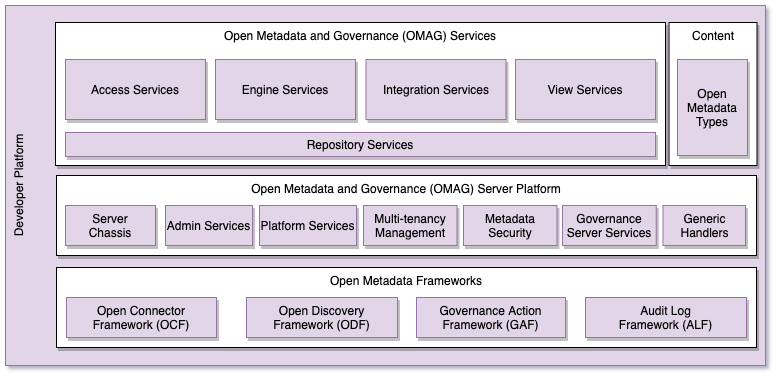
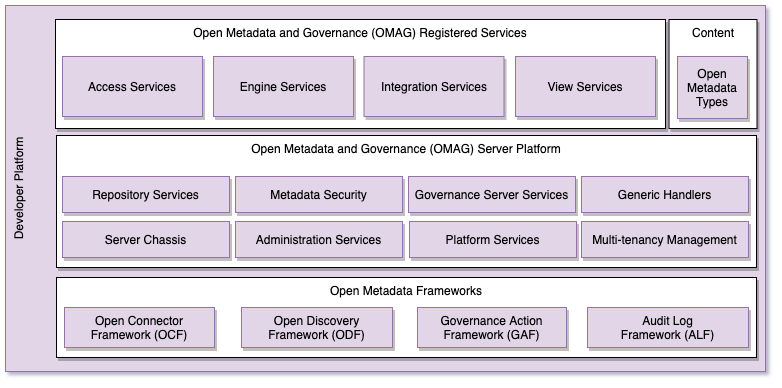
Update release status

diff --git a/open-metadata-publication/website/roadmap/developer-platform-functional-detail.md b/open-metadata-publication/website/roadmap/developer-platform-functional-detail.md
@@ -18,7 +18,11 @@ in the sections the follow.
 ![Developer Platform Detail](developer-platform-functional-detail.png#pagewidth)
 > **Figure 1:** Developer Platform Detail
 
-## Open Metadata and Governance (OMAG) Services
+## Open Metadata and Governance (OMAG) Registered Services
+
+The registered services are dynamically loaded in the OMAG Server Platform.  This means they can be
+added and removed as needed to create a customized platform. This may include
+registered services written by the Egeria community and supplied by third parties.
 
 ### Access Services
 The [Open Metadata Access Services (OMASs)](../../../open-metadata-implementation/access-services) provide specialist APIs/Events for different
@@ -27,17 +31,20 @@ described [below](#Open-Metadata-Types) and use the
 [repository services](#Repository-Services) to access metadata.
 
 There are access services for 
-[data catalogs](../../../open-metadata-implementation/access-services/asset-consumer) and
+[asset catalogs](../../../open-metadata-implementation/access-services/asset-manager),
+[data users](../../../open-metadata-implementation/access-services/asset-consumer) and
 [curation](../../../open-metadata-implementation/access-services/asset-owner) tools;
 [glossary tools](../../../open-metadata-implementation/access-services/subject-area);
 [data managers](../../../open-metadata-implementation/access-services/data-manager) and
 [engines](../../../open-metadata-implementation/access-services/data-engine);
 [data science/AI workbenches](../../../open-metadata-implementation/access-services/data-science),
-[Business Intelligence (BI) and reporting platforms](../../../open-metadata-implementation/access-services/information-view);
+[Business Intelligence (BI) and reporting platforms](../../../open-metadata-implementation/access-services/analytics-modeling);
 [dev-ops pipelines and tools](../../../open-metadata-implementation/access-services/dev-ops);
-[digital service management](../../../open-metadata-implementation/access-services/digital-architecture);
+[information architecture and data engineering](../../../open-metadata-implementation/access-services/digital-architecture) tools;
+[digital service management](../../../open-metadata-implementation/access-services/digital-service);
 [software development tools](../../../open-metadata-implementation/access-services/software-developer),
-[governance](../../../open-metadata-implementation/access-services/governance-program),
+[governance programs](../../../open-metadata-implementation/access-services/governance-program),
+[operational governance](../../../open-metadata-implementation/access-services/governance-engine),
 [privacy](../../../open-metadata-implementation/access-services/data-privacy) and 
 [security](../../../open-metadata-implementation/access-services/governance-engine) tools;
 [design modeling tools](../../../open-metadata-implementation/access-services/design-model),
@@ -46,9 +53,8 @@ There are access services for
 [stewardship and workflow](../../../open-metadata-implementation/access-services/stewardship-action) tools.
 
 The access services run in the following types of [cohort members](../../../open-metadata-implementation/admin-services/docs/concepts/cohort-member.md):
-[Metadata Access Point](../../../open-metadata-implementation/admin-services/docs/concepts/metadata-access-point.md),
-[Metadata Server](../../../open-metadata-implementation/admin-services/docs/concepts/metadata-server.md) and
-[Repository Proxy](../../../open-metadata-implementation/admin-services/docs/concepts/repository-proxy.md).
+[Metadata Access Point](../../../open-metadata-implementation/admin-services/docs/concepts/metadata-access-point.md) and
+[Metadata Server](../../../open-metadata-implementation/admin-services/docs/concepts/metadata-server.md).
 
 ### Engine Services
 
@@ -76,7 +82,7 @@ The purpose of the integration services is to simplify the implementation and ma
 connectors that integrate metadata exchange with third party technologies.  Follow the link
 for the integration daemon to understand more.
 
-These are in integration services provides today:
+These are the integration services provided by the Egeria Community today:
 
 * [Catalog Integrator](../../../open-metadata-implementation/integration-services/catalog-integrator) - provides a two-way synchronization for data catalogs.
 * [Database Integrator](../../../open-metadata-implementation/integration-services/database-integrator) - provides metadata extraction from relational databases.
@@ -96,40 +102,6 @@ run in the [view server](../../../open-metadata-implementation/admin-services/do
 The use of the separate server (and server platform) enables an extra firewall to be erected between the
 view servers and the metadata servers and governance servers, hiding the internal systems from end users.
 
-### Repository Services
-
-The [Open Metadata Repository Services (OMRS)](../../../open-metadata-implementation/repository-services) provide
-the basic ability to share metadata between
-metadata repositories.  The metadata repositories are organized into
-[open metadata repository cohorts](../../../open-metadata-implementation/repository-services/docs/open-metadata-repository-cohort.md).
-These cohorts define the scope of the metadata sharing.
-There are two complementary mechanisms that
-are operating together to ensure metadata is available to all consumers
-in the cohort.  The first is the ability for any member of a cohort to issue
-a federated query that includes all other members of the cohort.
-There is also optional metadata replication occurring across the cohort
-allowing a repository to selectively cache metadata from other members.
-
-The repository services implementation includes the
-[Type Definitions and Instance Structures](../../../open-metadata-implementation/repository-services/docs/metadata-meta-model.md)
-that are used to support the open metadata types described above;
-[Event Payloads](../../../open-metadata-implementation/repository-services/docs/event-descriptions)
-for the asynchronous exchange of metadata between repositories in a cohort;
-[Repository connector APIs](../../../open-metadata-implementation/repository-services/docs/component-descriptions/connectors/repository-connector.md)
-to allow third party tools to "plug in" to open metadata
-and [repository implementations](../../../open-metadata-implementation/adapters/open-connectors/repository-services-connectors/open-metadata-collection-store-connectors)
-to expand the metadata storage capability;
-[Cohort Registration and Membership](../../../open-metadata-implementation/admin-services/docs/concepts/cohort-member.md)
-that broadcasts details of new members to automatically configure the repository services in
-other members of the cohort;
-Federated queries through the [enterprise repository services](../../../open-metadata-implementation/repository-services/docs/subsystem-descriptions/enterprise-repository-services.md);
-a [Repository Conformance Workbench](../../../open-metadata-conformance-suite/docs/repository-workbench)
-to test the ability of a cohort member to operate correctly in the cohort;
-[Open Metadata Archives](../../../open-metadata-resources/open-metadata-archives)
-for managing metadata import/export as well as content packs of standard definitions;
-[Audit Log Implementation](../../../open-metadata-implementation/repository-services/docs/component-descriptions/audit-log.md) with routing to
-[multiple destinations](../../../open-metadata-implementation/admin-services/docs/user/configuring-the-audit-log.md) as needed by the
-operations teams.
 
 # Open Metadata Types
 
@@ -176,6 +148,41 @@ query the OMAG servers and services running on an OMAG Server Platform.
 The [multi-tenant](../../../open-metadata-implementation/common-services/multi-tenant) module supports
 multiple OMAG Servers running on an OMAG Server Platform.
 
+### Repository Services
+
+The [Open Metadata Repository Services (OMRS)](../../../open-metadata-implementation/repository-services) provide
+the basic ability to share metadata between
+metadata repositories.  The metadata repositories are organized into
+[open metadata repository cohorts](../../../open-metadata-implementation/repository-services/docs/open-metadata-repository-cohort.md).
+These cohorts define the scope of the metadata sharing.
+There are two complementary mechanisms that
+are operating together to ensure metadata is available to all consumers
+in the cohort.  The first is the ability for any member of a cohort to issue
+a federated query that includes all other members of the cohort.
+There is also optional metadata replication occurring across the cohort
+allowing a repository to selectively cache metadata from other members.
+
+The repository services implementation includes the
+[Type Definitions and Instance Structures](../../../open-metadata-implementation/repository-services/docs/metadata-meta-model.md)
+that are used to support the open metadata types described above;
+[Event Payloads](../../../open-metadata-implementation/repository-services/docs/event-descriptions)
+for the asynchronous exchange of metadata between repositories in a cohort;
+[Repository connector APIs](../../../open-metadata-implementation/repository-services/docs/component-descriptions/connectors/repository-connector.md)
+to allow third party tools to "plug in" to open metadata
+and [repository implementations](../../../open-metadata-implementation/adapters/open-connectors/repository-services-connectors/open-metadata-collection-store-connectors)
+to expand the metadata storage capability;
+[Cohort Registration and Membership](../../../open-metadata-implementation/admin-services/docs/concepts/cohort-member.md)
+that broadcasts details of new members to automatically configure the repository services in
+other members of the cohort;
+Federated queries through the [enterprise repository services](../../../open-metadata-implementation/repository-services/docs/subsystem-descriptions/enterprise-repository-services.md);
+a [Repository Conformance Workbench](../../../open-metadata-conformance-suite/docs/repository-workbench)
+to test the ability of a cohort member to operate correctly in the cohort;
+[Open Metadata Archives](../../../open-metadata-resources/open-metadata-archives)
+for managing metadata import/export as well as content packs of standard definitions;
+[Audit Log Implementation](../../../open-metadata-implementation/repository-services/docs/component-descriptions/audit-log.md) with routing to
+[multiple destinations](../../../open-metadata-implementation/admin-services/docs/user/configuring-the-audit-log.md) as needed by the
+operations teams.
+
 ### Metadata Security
 
 The [metadata-security](../../../open-metadata-implementation/common-services/metadata-security) module
@@ -192,6 +199,8 @@ They include:
 
 * [data-engine-proxy-services](../../../open-metadata-implementation/governance-servers/data-engine-proxy-services) for
 the [Data Engine Proxy](../../../open-metadata-implementation/admin-services/docs/concepts/data-engine-proxy.md).
+* [engine-host-services](../../../open-metadata-implementation/governance-servers/integration-daemon-services) for
+the [Engine Host](../../../open-metadata-implementation/admin-services/docs/concepts/engine-host.md).
 * [integration-daemon-services](../../../open-metadata-implementation/governance-servers/integration-daemon-services) for
 the [Integration Daemon](../../../open-metadata-implementation/admin-services/docs/concepts/integration-daemon.md).
 * [open-lineage-services](../../../open-metadata-implementation/governance-servers/open-lineage-services) for

diff --git a/release-notes/release-notes-2-7.md b/release-notes/release-notes-2-7.md
@@ -38,7 +38,7 @@ For details on both see the commit history in GitHub.
 
 # Egeria Implementation Status at Release 2.7
 
-![Egeria Implementation Status](../open-metadata-publication/website/roadmap/functional-organization-showing-implementation-status-for-2.6.png#pagewidth) (unchanged from 2.6)
+![Egeria Implementation Status](../open-metadata-publication/website/roadmap/functional-organization-showing-implementation-status-for-2.7.png#pagewidth) (unchanged from 2.6)
 
 Link to Egeria's [Roadmap](../open-metadata-publication/website/roadmap) for more details about the
 Open Metadata and Governance vision, strategy and content.
